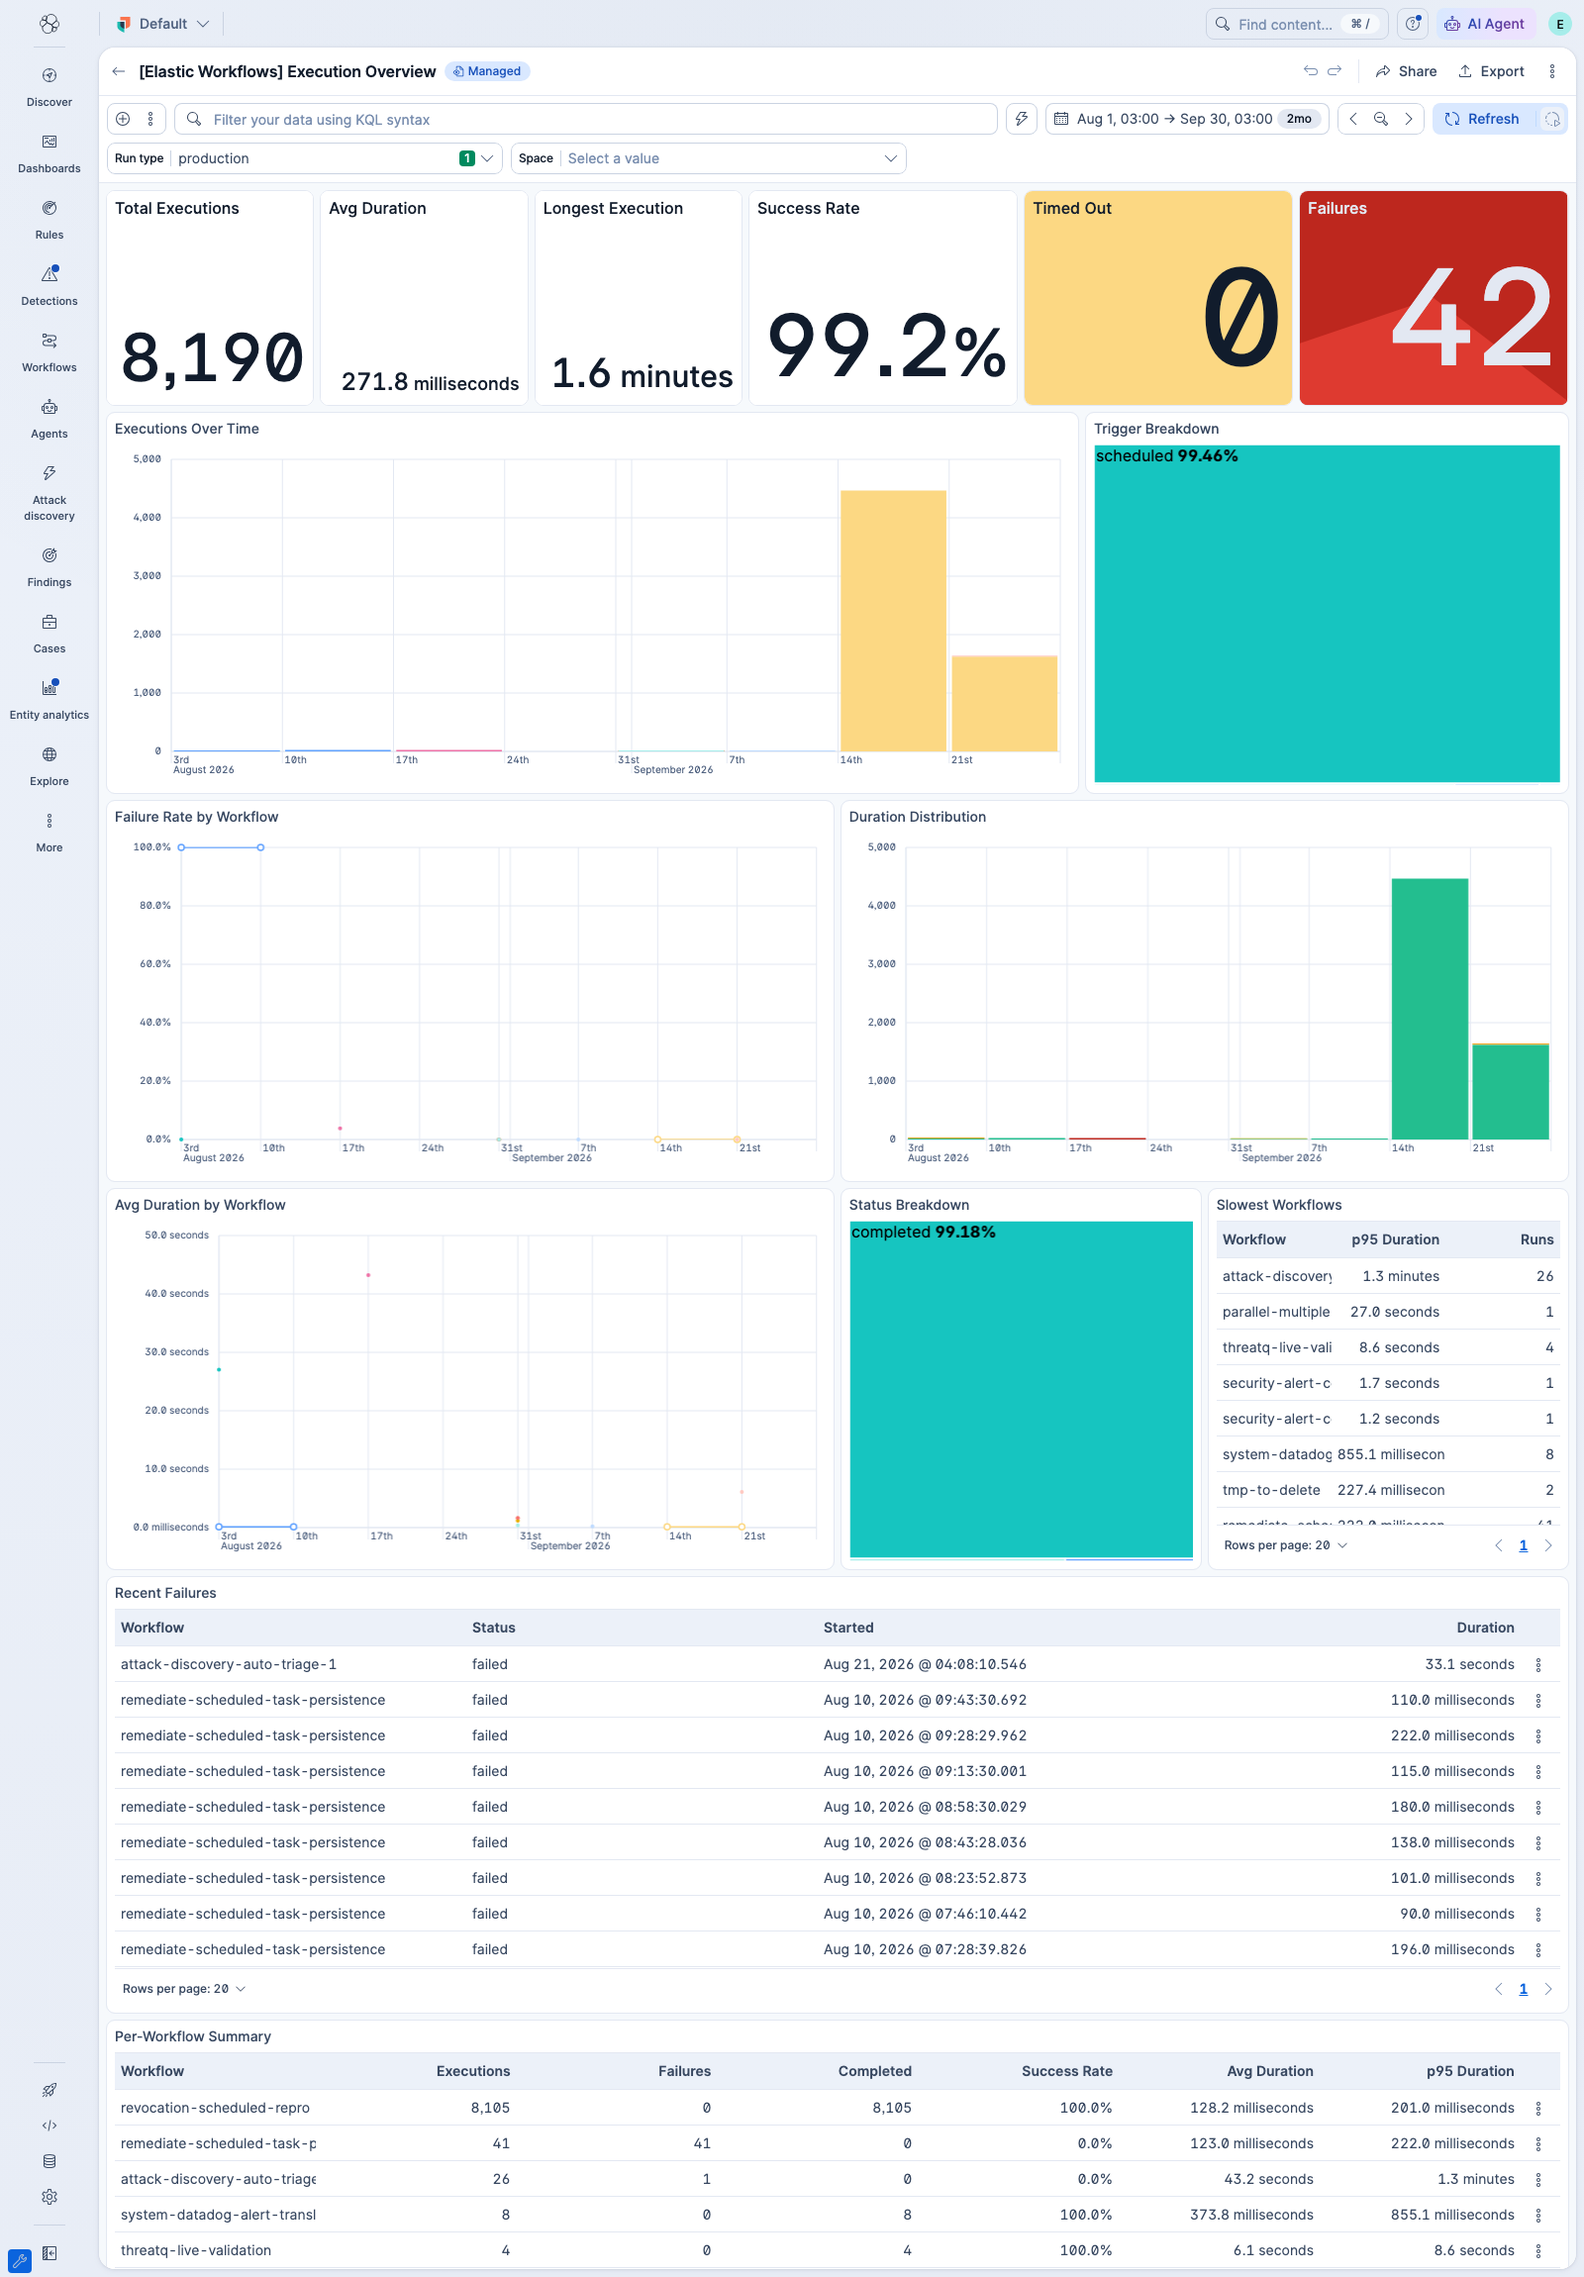
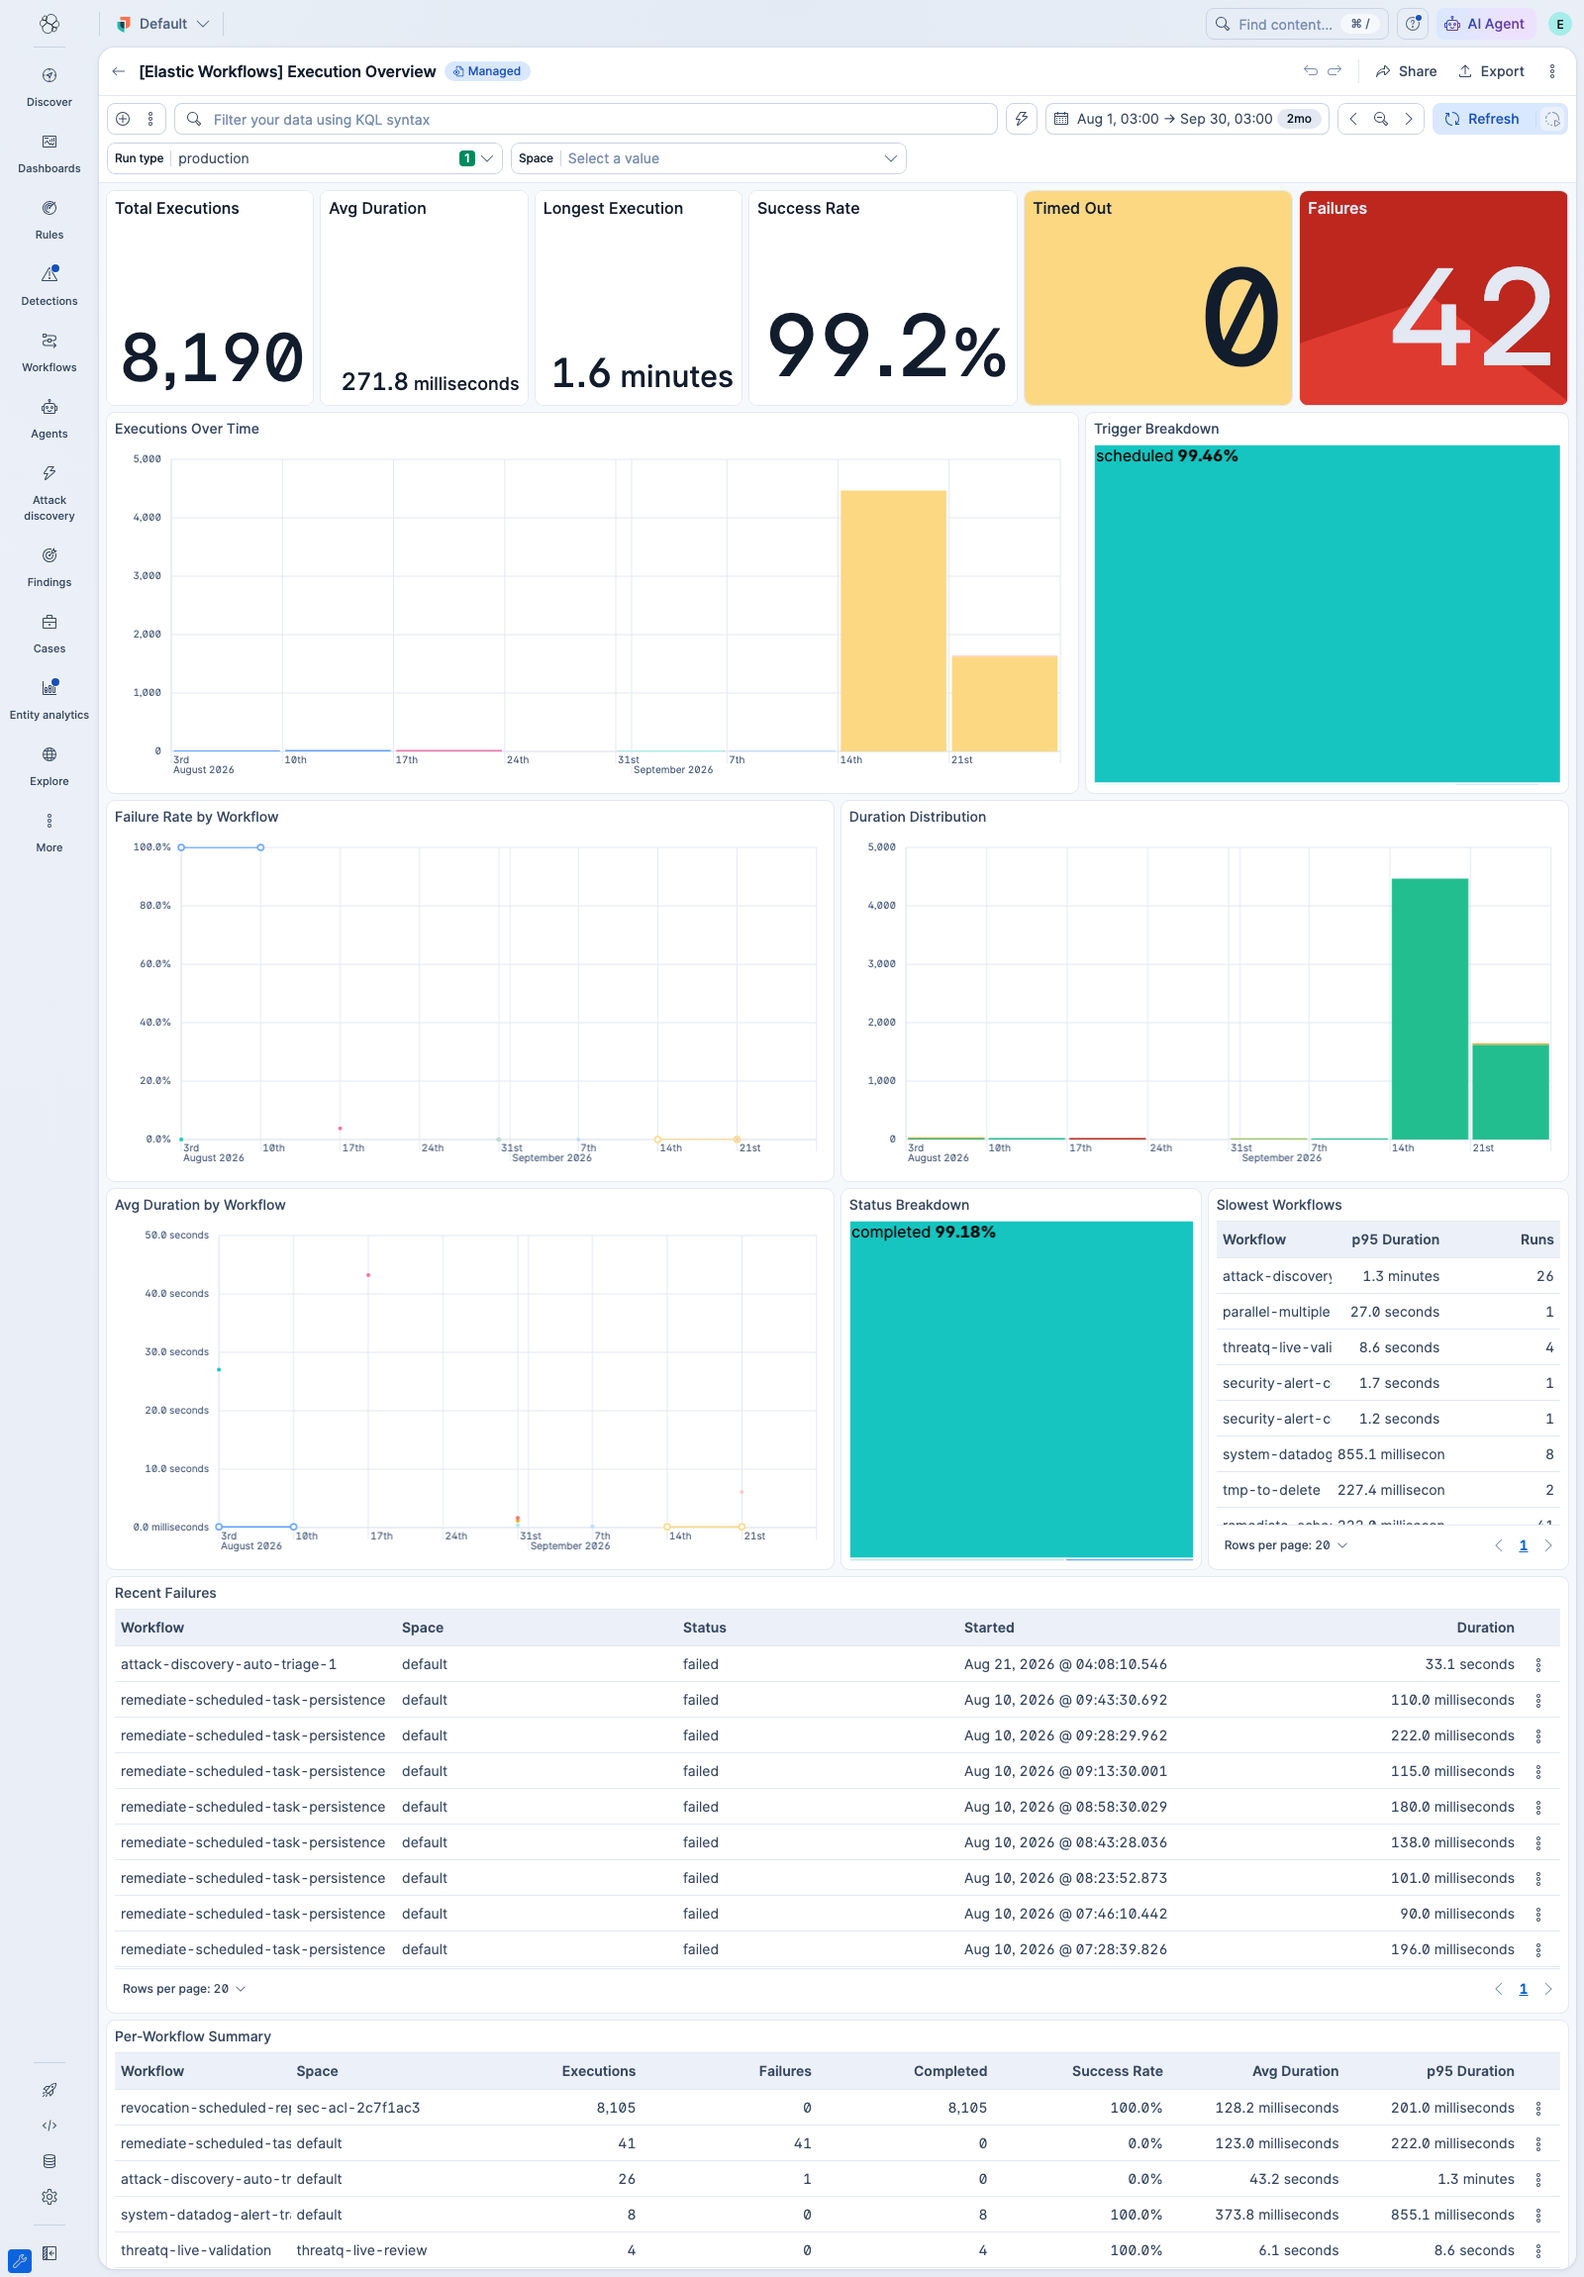
Open workflow drilldowns in the workflow's space
{{kibanaUrl}} includes the current space, so rows from another space
opened the wrong workflow. Show the space in both tables and build the
URL with an explicit /s/<spaceId> prefix.

diff --git a/packages/elastic_workflows/docs/README.md b/packages/elastic_workflows/docs/README.md
@@ -17,8 +17,8 @@ queries against the workflow execution index.
 - **Avg Duration by Workflow** — duration trend per workflow over time
 - **Status Breakdown** — treemap of execution statuses
 - **Slowest Workflows** — table of workflows ranked by p95 duration
-- **Recent Failures** — table of failing workflows with drilldown to executions
-- **Per-Workflow Summary** — table with executions, failures, success %, avg duration, and p95
+- **Recent Failures** — table of failing workflows and their spaces, with drilldown to executions
+- **Per-Workflow Summary** — table with space, executions, failures, success %, avg duration, and p95
 
 Dashboard-level controls filter every panel by **space** and **run type**. The run type is `production` by default. Select `test` to include test runs.
 
